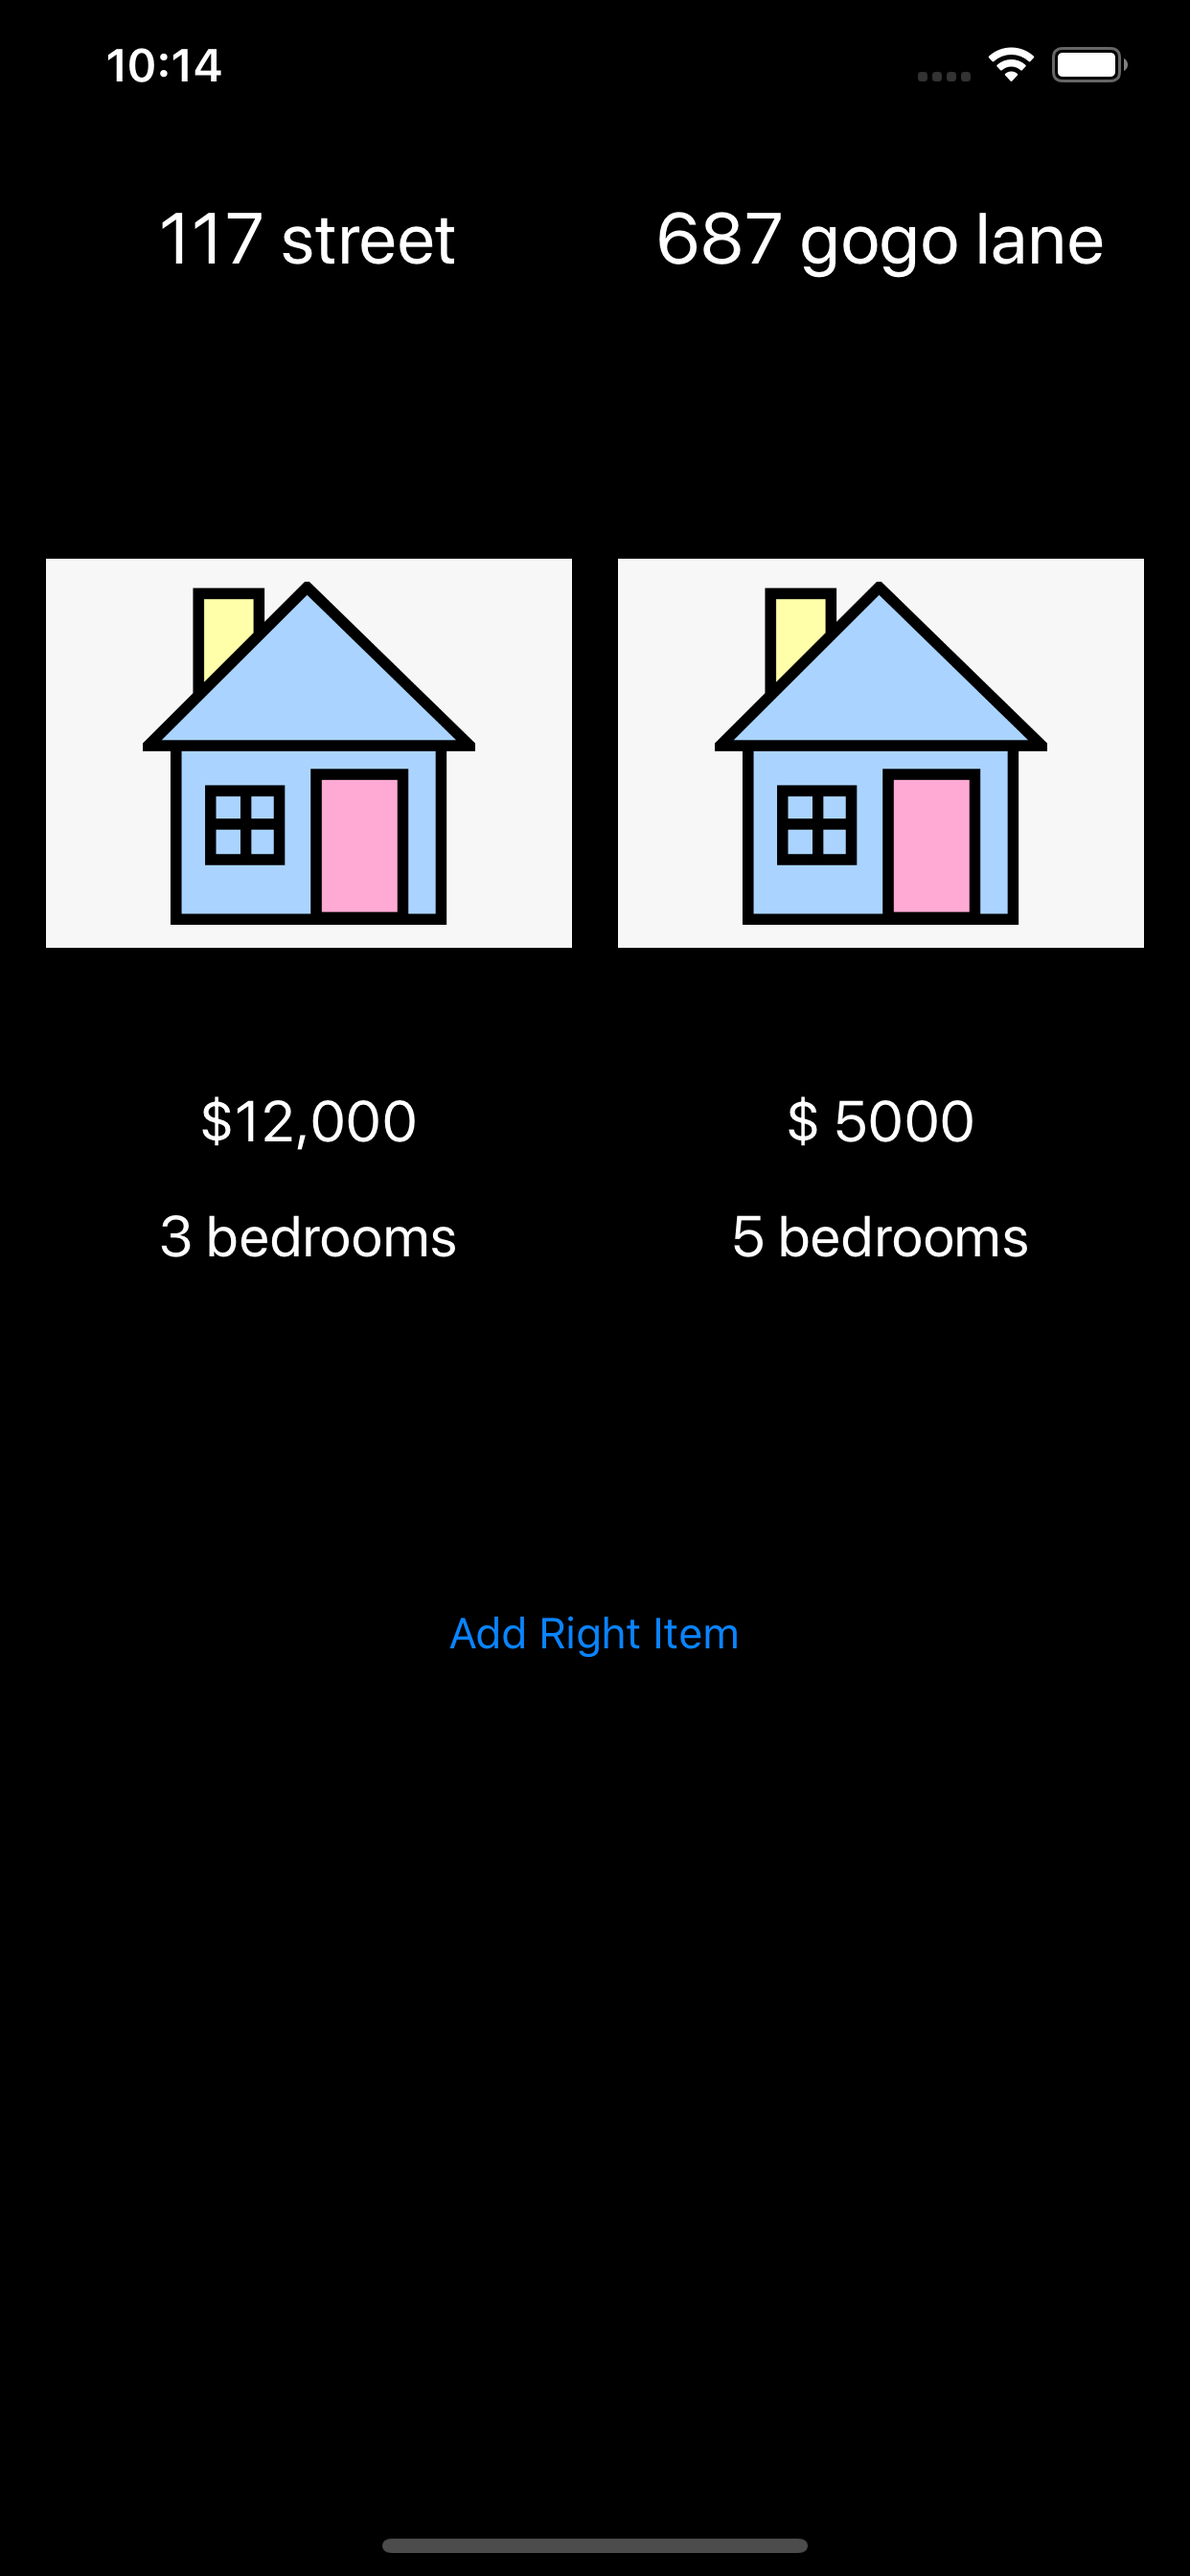
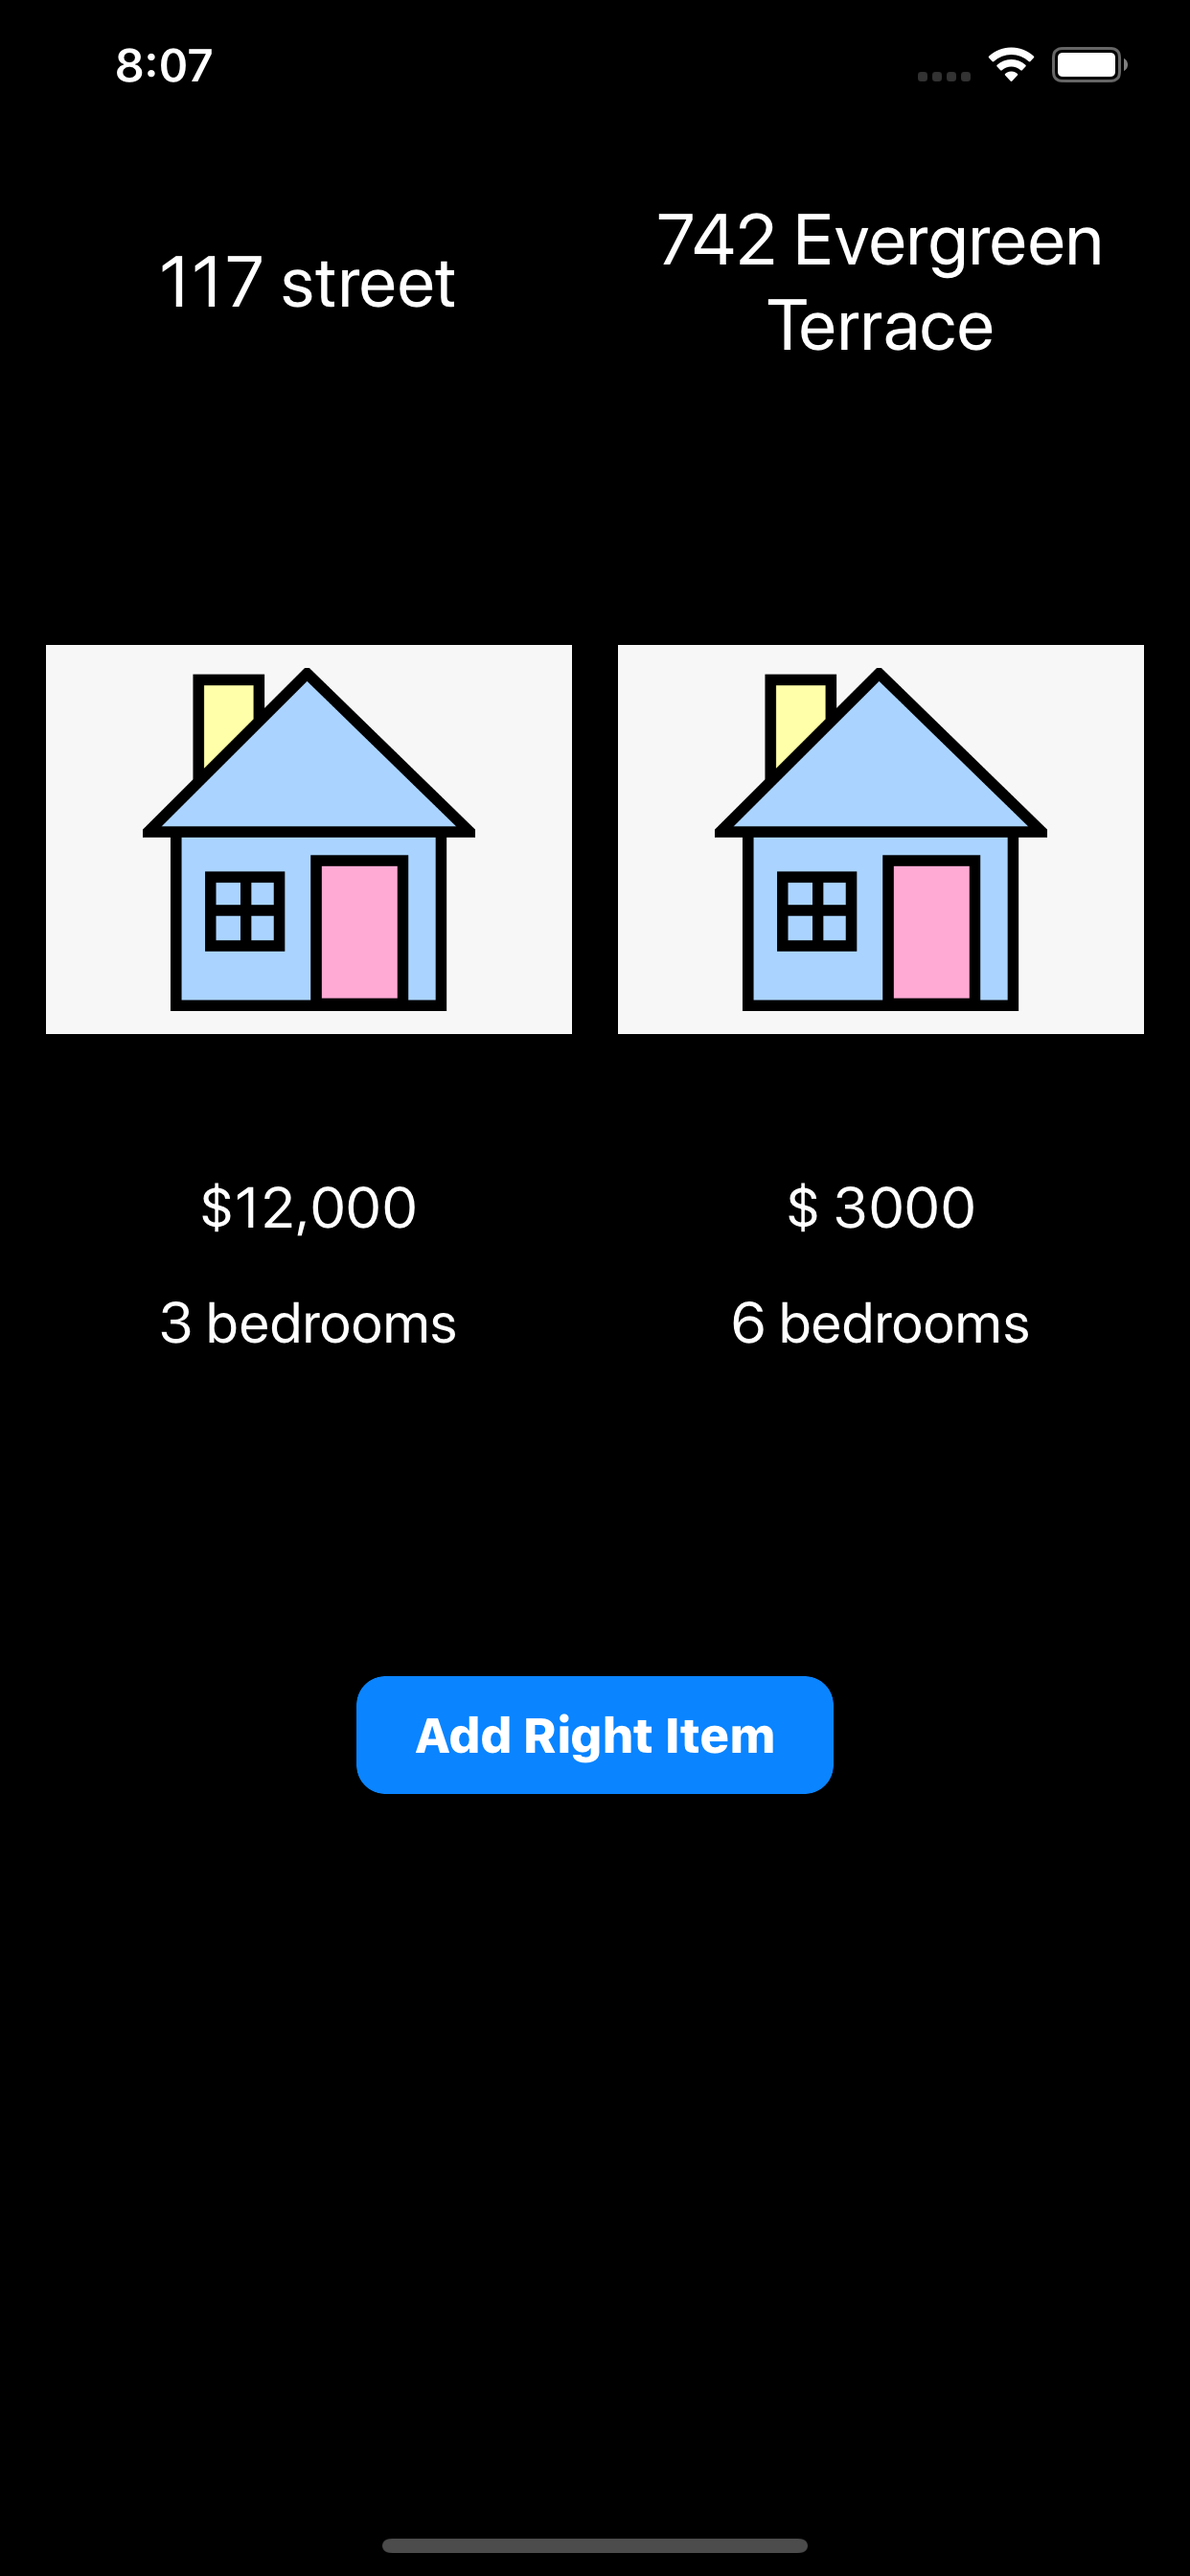
updated Readme

diff --git a/Week4/README.md b/Week4/README.md
@@ -1,4 +1,4 @@
-# Cryptly App 
+# ComparisonShopper & CompatibilitySlider
 
 
 [![License: MIT](https://img.shields.io/badge/License-MIT-yellow.svg)](https://opensource.org/licenses/MIT)
@@ -8,42 +8,33 @@
 [![Twitter](https://img.shields.io/badge/twitter-@byaruhaf-blue.svg)](http://twitter.com/byaruhaf)
 
 
-## Week 3 Assignment
+## Week 4 Assignment
 
-Create an app called Cryptly that displays prices of cryptocurrencies
+Practice Debugging on ComparisonShopper & build a mini dating app called Compatibility Slider
 
 ### Assignment Requirements completed
-* Create an app data model CryptoCurrency
-* Decode JSON data to the app data model
-* Update the user interface based on the app data model. 
-* use only filter() and/or reduce() to extract view data from the model 
-* use protocols and NotificationCenter to change app theme based on the toggle button state
-
-### Stretch Above and Beyond Requirements completed:
-* Refactor setupViews() function in to a custom UIView
-* Add trend & percentageRise variables to the app model
-* Display Most Falling and Most Rising cryptocurrencies
-* create a Roundable protocol for a custom view restricted to the class UIView.
- 
+* Fix app crash of ComparisonShopper
+* Fix app missing UI display for the second house in ComparisonShopper
+* Layout Compatibility Slider using autolayout
+* add App Logic to Compatibility Slider
+* use protocols and NotificationCenter to change app theme based on the toggle button state 
 
 ### Additional Assignment Goals completed
-* Added ViewModel to prepare the model data for the view. 
-* Added animation during the change of theme's
-* Added network component to fetch data from a remote [Nomics API](api.nomics.com)
-* Using swift's Result type for the Asynchronous completion handler
+* Fixed unattached outlet in ComparisonShopper
+* Added keyboard Type restrictions to the beds and price textFields in ComparisonShopper
+* Fixed Compatibility calculation in Compatibility Slider
+* Added animation to smooth the transition between animals in Compatibility Slider
+* UX Testing revealed users kept clicking the emojis of the  Compatibility Slider so added a tap Gesture Recognizer's to the emojis to move the slider to set positions 
 
 
 
 ## App Demo
 
-![Light2Dark](Demo/Light2Dark.gif)
 
-|Light Mode|Dark Mode|
+| Comparison Shopper| Compatibility Slider|
 |:-------------------------:|:-------------------------
-|![CryptlyLight](Demo/CryptlyLight.png)  |  ![CryptlyDark.png](Demo/CryptlyDark.png) |
+|![ComparisonShopper](Demo/ComparisonShopper.png)  |  ![CompatibilitySlider.png](Demo/CompatibilitySlider.png) |
 
-## Attribution
-App logo by [TempusInfernus](https://en.wikipedia.org/wiki/File:Cryptocurrency_Logo.svg)
 
 
 ## Contribution
